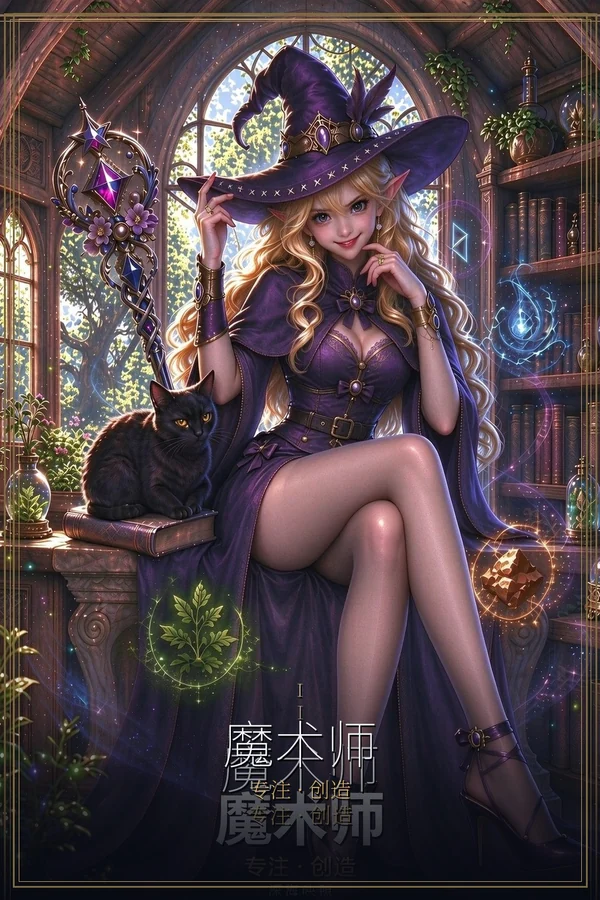
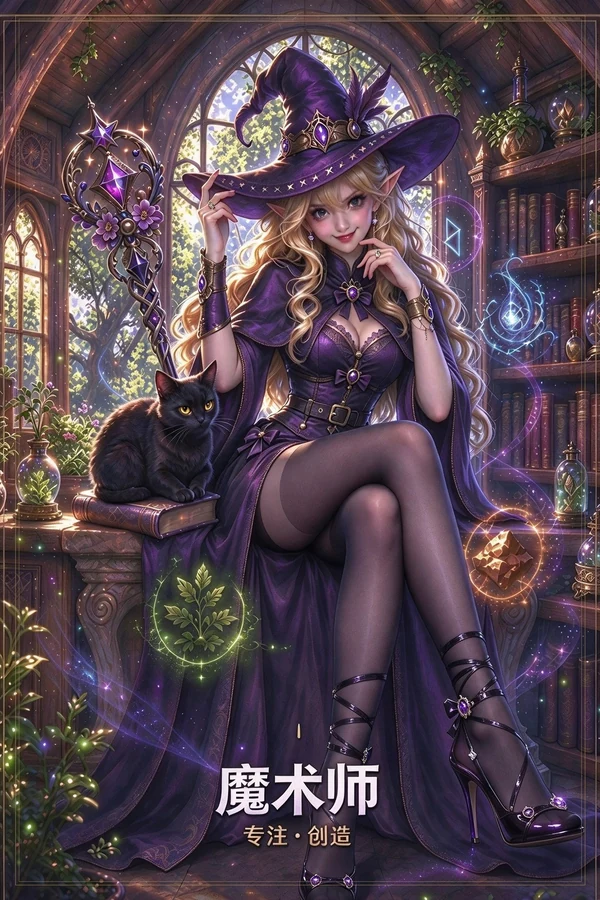
feat(tarot): B port echo lines + A/B tone switch, new Emperor and Magician art

diff --git a/tarot/index.html b/tarot/index.html
@@ -1586,5 +1586,48 @@ document.addEventListener('keydown', function(e){
   }
 })();
 </script>
+<script>
+// ===== B 端口：命运回响（硬核断语，豆包外包产出）=====
+const B_TONE = {"愚人":{"d":"前路茫茫，何妨踏风而行。","a":"出门随意走一段陌生小路。","l":"FORTUNA CAECA・盲眼之运"},"魔术师":{"d":"诸般器具，皆由一心调度。","a":"整理桌面，归置手边杂物。","l":"OMNIA POSSIBILIA・万事可期"},"女祭司":{"d":"秘藏于心，静待灵光自现。","a":"静坐片刻，倾听心底思绪。","l":"ARCANA SILENTIA・静默秘义"},"皇后":{"d":"沃土生芳，温柔自有生机。","a":"浇灌一盆绿植，抚观花叶。","l":"MATER NATURA・自然之母"},"皇帝":{"d":"立规守序，方得山河安稳。","a":"写下明日一件待办要事。","l":"LEX ET IMPERIUM・律法权柄"},"教皇":{"d":"循道传知，接引迷途之人。","a":"向他人分享一则心得感悟。","l":"DOCTRINA SACRA・圣道教诲"},"恋人":{"d":"一念抉择，牵起缘分之丝。","a":"给在意之人发一句问候。","l":"CONCORDIA ANIMORUM・心神相契"},"战车":{"d":"驭心而行，莫为妄念所拘。","a":"专注做完一件搁置的事。","l":"VICTORIA PER ANIMUM・心胜为赢"},"力量":{"d":"柔怀克刚，胜于悍勇争锋。","a":"温和化解一桩微小争执。","l":"VIS MITIS・柔力"},"隐者":{"d":"持灯独往，于幽处觅真知。","a":"独自读几页安静的文字。","l":"LUMEN INTERIUS・内心之光"},"命运之轮":{"d":"轮转不息，盛衰本自循环。","a":"接纳一件不受控的变故。","l":"ROTA FORTUNAE・命运之轮"},"正义":{"d":"秤衡功过，分毫不可偏私。","a":"坦诚承认自己一处过失。","l":"AEQUITAS・公允"},"倒吊人":{"d":"换目观世，舍而后有所得。","a":"换个视角重新想一件烦事。","l":"SUSPENSUM SAPIENTIA・悬思悟道"},"死神":{"d":"旧形消散，方容新象萌生。","a":"舍弃一件不再需要的旧物。","l":"MUTATIO TOTALIS・全然蜕变"},"节制":{"d":"调融两端，令水火自相和。","a":"放缓节奏，平衡劳逸。","l":"TEMPERANTIA・调和"},"恶魔":{"d":"枷锁本是你亲手系就。","a":"松开一件你自愿背着的责任。","l":"UMBRA VERITATIS・真理之影"},"高塔":{"d":"危楼倾颓，虚妄一朝崩离。","a":"放下一个不切实际的幻想。","l":"RUINA FALSA・虚构之倾"},"星星":{"d":"清辉垂落，慰解长途孤客。","a":"抬眼凝望夜空，静候星光。","l":"SPES AETERNA・恒久之望"},"月亮":{"d":"幻影浮潮，真假难以骤分。","a":"记下心中一桩朦胧疑虑。","l":"LUNA FALLAX・幻月"},"太阳":{"d":"光彻万物，阴霾自当消散。","a":"沐浴暖阳，舒展身心。","l":"SOL CLARUS・明曜"},"审判":{"d":"闻召自省，重审过往行迹。","a":"复盘近日得失，自问本心。","l":"VOCATIO AETERNA・永恒呼召"},"世界":{"d":"环圆闭合，一程终而万象宁。","a":"完成一件搁置已久的小事。","l":"ORBIS COMPLETUS・圆满之环"}};
+window.__tone = localStorage.getItem('mifa_tone') || 'A';
+window.setTone = function(t){
+  window.__tone = t; localStorage.setItem('mifa_tone', t);
+  document.querySelectorAll('[data-tone]').forEach(el=>{
+    el.style.opacity = (el.dataset.tone===t) ? '1' : '.35';
+  });
+  const box = document.getElementById('toneBox');
+  if (box) box.setAttribute('data-cur', t);
+};
+document.addEventListener('DOMContentLoaded', function(){
+  const wrap = document.createElement('div');
+  wrap.id = 'toneBox';
+  wrap.style.cssText = 'display:flex;gap:8px;justify-content:center;margin:14px 0 2px';
+  wrap.innerHTML = '<button data-tone="A" style="background:none;border:1px solid rgba(206,184,134,.45);color:#ceb886;padding:6px 14px;border-radius:999px;font-size:12px;letter-spacing:.2em" onclick="setTone(\'A\')">引 导</button>'+
+                   '<button data-tone="B" style="background:none;border:1px solid rgba(206,184,134,.45);color:#ceb886;padding:6px 14px;border-radius:999px;font-size:12px;letter-spacing:.2em" onclick="setTone(\'B\')">回 响</button>';
+  const host = document.querySelector('.sub');
+  if (host && host.parentNode) host.parentNode.insertBefore(wrap, host.nextSibling);
+  setTone(window.__tone);
+});
+// 结果卡片渲染后，若为 B 端口则追加「回响」一行
+window.applyTone = function(){
+  if (window.__tone !== 'B') return;
+  document.querySelectorAll('.rep').forEach(function(card){
+    if (card.querySelector('.echo')) return;
+    const hue = card.querySelector('.hue');
+    if (!hue) return;
+    const nm = (hue.innerText || '').trim().split(/\s/)[0];
+    const b = B_TONE[nm];
+    if (!b) return;
+    const div = document.createElement('div');
+    div.className = 'echo';
+    div.style.cssText = 'margin-top:12px;padding:12px 14px;border:1px solid rgba(206,184,134,.32);border-radius:10px;color:#e8dfc6;font-size:15px;line-height:1.8;background:rgba(206,184,134,.04)';
+    div.innerHTML = '<div style="font-size:10.5px;letter-spacing:.24em;opacity:.55;margin-bottom:7px">' + (b.l || '') + '</div>'
+                  + '<div>' + (b.d || '') + '</div>'
+                  + '<div style="opacity:.7;font-size:13px;margin-top:7px">' + (b.a || '') + '</div>';
+    card.appendChild(div);
+  });
+};
+setInterval(function(){ if(window.__tone==='B') window.applyTone(); }, 800);
+</script>
 </body>
 </html>
